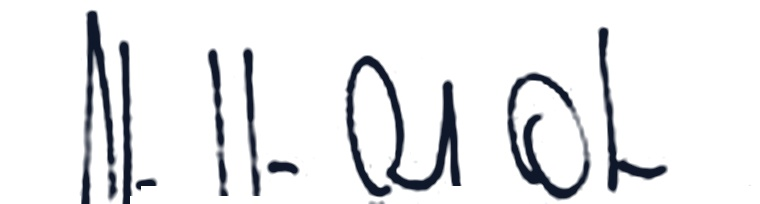
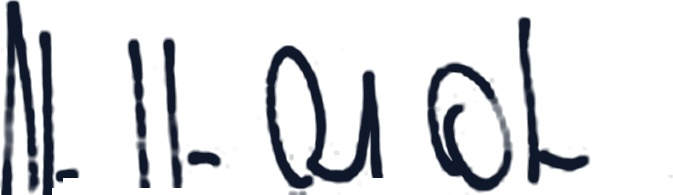
fix(assinatura): aumentar escala da assinatura para 75px e recortar bordas

Changed region(s): [[0.0, 0.0, 0.9049, 1.0]]

diff --git a/app/clientes/modelos-contrato/contractVariables.ts b/app/clientes/modelos-contrato/contractVariables.ts
@@ -460,28 +460,28 @@ export const CONTRACT_VARIABLES: ContractVariable[] = [
     tag: "{{empresa.assinatura}}",
     label: "Assinatura do RT (Imagem)",
     description: "Imprime diretamente a imagem da assinatura digital do responsável técnico na tela",
-    sample: "<img src=\"/contratos/assinatura_eletronica.png\" alt=\"Assinatura do Responsável Técnico\" style=\"max-height: 65px; max-width: 220px; object-fit: contain; vertical-align: middle; mix-blend-mode: multiply;\" />",
+    sample: "<img src=\"/contratos/assinatura_eletronica.png\" alt=\"Assinatura do Responsável Técnico\" style=\"max-height: 75px; max-width: 250px; object-fit: contain; vertical-align: middle; mix-blend-mode: multiply;\" />",
     category: "Sua Empresa"
   },
   {
     tag: "{{empresa.assinatura_tecnico}}",
     label: "Assinatura do RT (Imagem - Alias)",
     description: "Imprime diretamente a imagem da assinatura do responsável técnico",
-    sample: "<img src=\"/contratos/assinatura_eletronica.png\" alt=\"Assinatura do Responsável Técnico\" style=\"max-height: 65px; max-width: 220px; object-fit: contain; vertical-align: middle; mix-blend-mode: multiply;\" />",
+    sample: "<img src=\"/contratos/assinatura_eletronica.png\" alt=\"Assinatura do Responsável Técnico\" style=\"max-height: 75px; max-width: 250px; object-fit: contain; vertical-align: middle; mix-blend-mode: multiply;\" />",
     category: "Sua Empresa"
   },
   {
     tag: "{{empresa.assinatura_responsavel_tecnico}}",
     label: "Assinatura do RT (Imagem - Completo)",
     description: "Imprime diretamente a imagem da assinatura digitalizada do RT",
-    sample: "<img src=\"/contratos/assinatura_eletronica.png\" alt=\"Assinatura do Responsável Técnico\" style=\"max-height: 65px; max-width: 220px; object-fit: contain; vertical-align: middle; mix-blend-mode: multiply;\" />",
+    sample: "<img src=\"/contratos/assinatura_eletronica.png\" alt=\"Assinatura do Responsável Técnico\" style=\"max-height: 75px; max-width: 250px; object-fit: contain; vertical-align: middle; mix-blend-mode: multiply;\" />",
     category: "Sua Empresa"
   },
   {
     tag: "{{empresa.assinatura_digital}}",
     label: "Assinatura Digital (Imagem - Alias)",
     description: "Imprime diretamente a imagem da assinatura digital do RT",
-    sample: "<img src=\"/contratos/assinatura_eletronica.png\" alt=\"Assinatura do Responsável Técnico\" style=\"max-height: 65px; max-width: 220px; object-fit: contain; vertical-align: middle; mix-blend-mode: multiply;\" />",
+    sample: "<img src=\"/contratos/assinatura_eletronica.png\" alt=\"Assinatura do Responsável Técnico\" style=\"max-height: 75px; max-width: 250px; object-fit: contain; vertical-align: middle; mix-blend-mode: multiply;\" />",
     category: "Sua Empresa"
   },
   {
@@ -495,7 +495,7 @@ export const CONTRACT_VARIABLES: ContractVariable[] = [
     tag: "{{empresa.assinatura_tag}}",
     label: "Tag HTML da Assinatura Digital (Alias)",
     description: "Elemento de imagem completo da assinatura do RT já estilizado",
-    sample: "<img src=\"/contratos/assinatura_eletronica.png\" alt=\"Assinatura do Responsável Técnico\" style=\"max-height: 65px; max-width: 220px; object-fit: contain; vertical-align: middle; mix-blend-mode: multiply;\" />",
+    sample: "<img src=\"/contratos/assinatura_eletronica.png\" alt=\"Assinatura do Responsável Técnico\" style=\"max-height: 75px; max-width: 250px; object-fit: contain; vertical-align: middle; mix-blend-mode: multiply;\" />",
     category: "Sua Empresa"
   },
   {
@@ -673,7 +673,7 @@ export function buildCompanyReplacements(company?: any): Record<string, string> 
   // Elementos HTML de imagem prontos para impressão direta na tela
   const logoImg = `<img src="${logoUrl}" alt="${company.razaoSocial || company.nomeFantasia || "Logomarca"}" style="max-height: 80px; max-width: 220px; object-fit: contain; vertical-align: middle;" />`;
   const qrCodeImg = `<img src="${qrCodeUrl}" alt="QR Code PIX" style="max-width: 80px; height: auto; vertical-align: middle; mix-blend-mode: multiply;" />`;
-  const assinaturaImg = `<img src="${assinaturaUrl}" alt="Assinatura do Responsável Técnico" style="max-height: 65px; max-width: 220px; object-fit: contain; vertical-align: middle; mix-blend-mode: multiply;" />`;
+  const assinaturaImg = `<img src="${assinaturaUrl}" alt="Assinatura do Responsável Técnico" style="max-height: 75px; max-width: 250px; object-fit: contain; vertical-align: middle; mix-blend-mode: multiply;" />`;
 
   return {
     "{{empresa.nome}}": company.nomeFantasia || company.razaoSocial || "",
